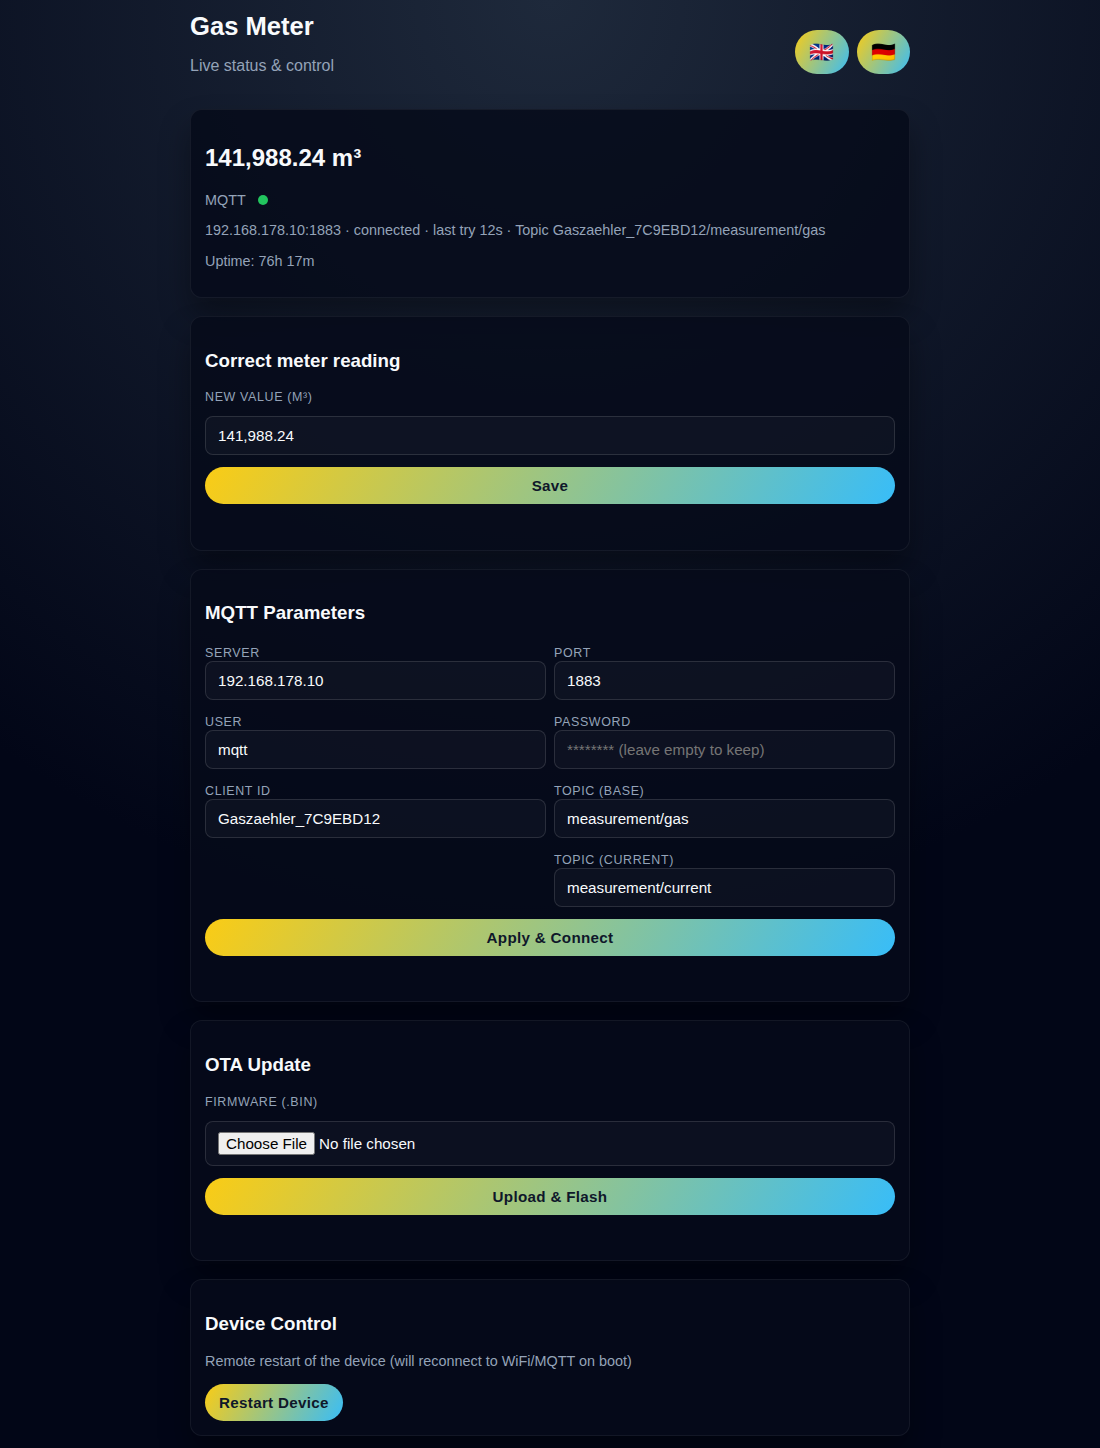
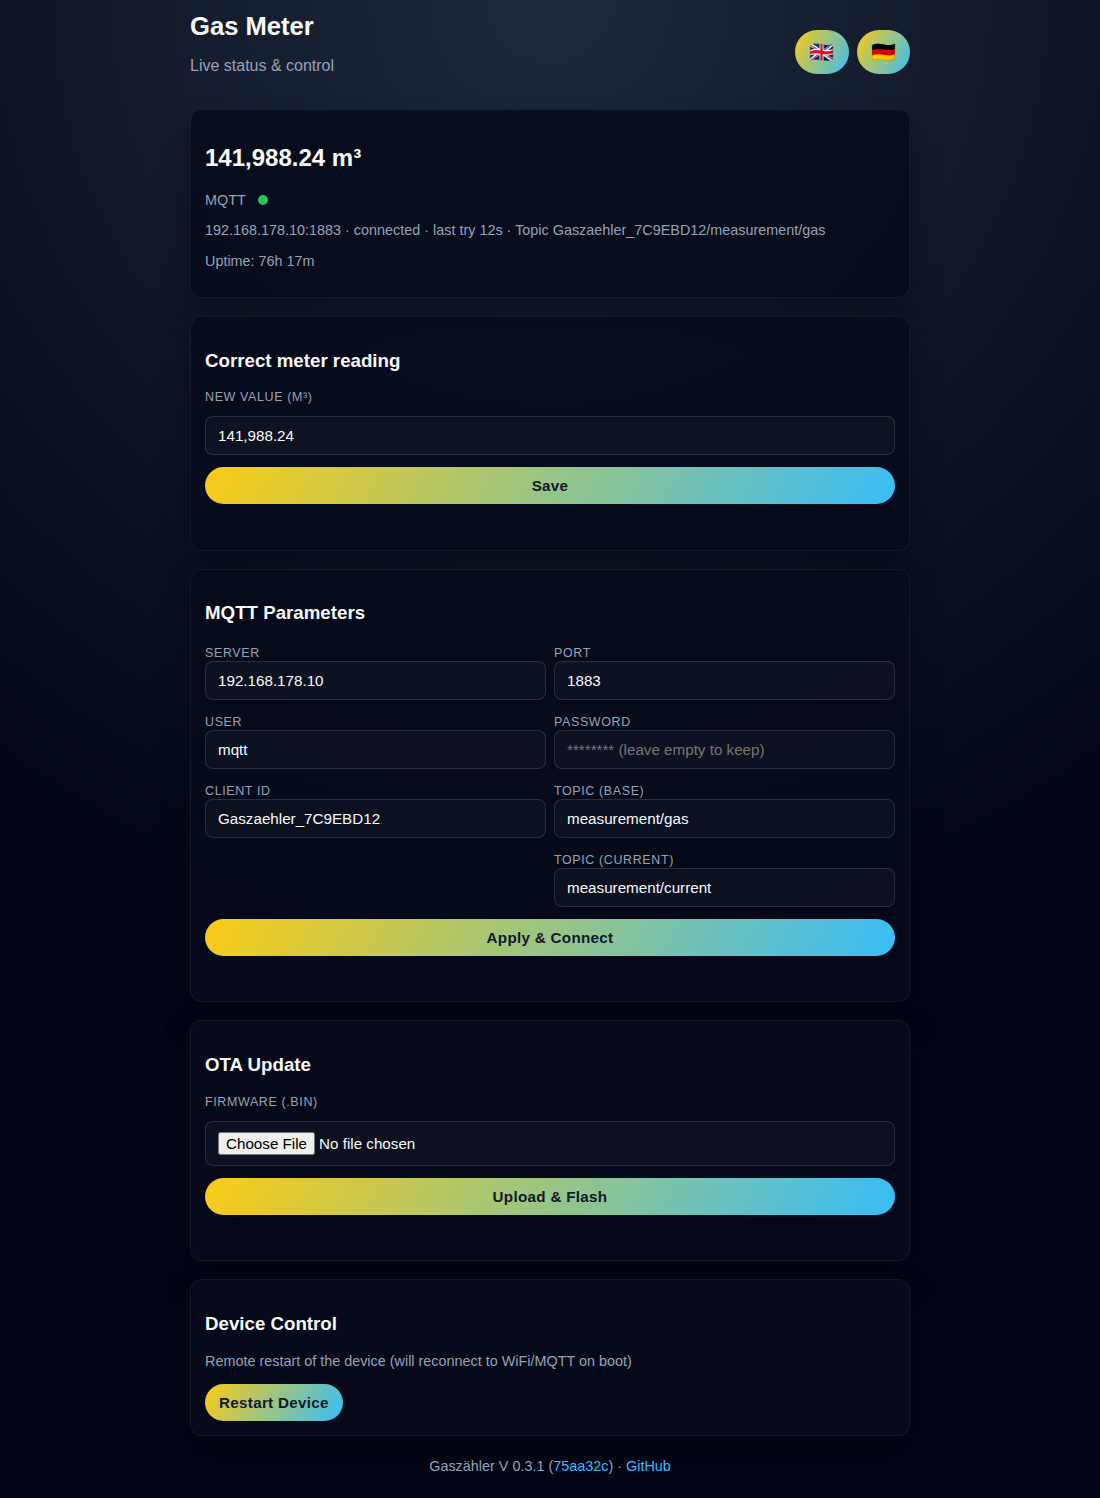
Single retained MQTT topic, firmware version with git commit in web UI, TFT and HA
- meter reading only on <clientID>/<topic> (retained); HA discovery points there,
  the retained .../state message of older firmware is deleted on connect
- scripts/build_info.py embeds the git commit; web UI footer shows version,
  commit (linked) and GitHub link

diff --git a/web/index.html b/web/index.html
@@ -52,6 +52,9 @@ main {
 }
 .status-dot.online { background:#22c55e; }
 .muted { color:var(--muted); font-size:0.9rem; }
+footer { text-align:center; padding:4px 0 12px; }
+footer a { color:var(--accent-2); text-decoration:none; }
+footer a:hover { text-decoration:underline; }
 form { display:flex; flex-direction:column; gap:12px; }
 label {
     font-size:0.78rem;
@@ -193,6 +196,11 @@ input, select, textarea { width: 100%; box-sizing: border-box; }
         <button id="btn-restart" data-i18n="restart">Restart Device</button>
         <span class="feedback" id="restart-feedback"></span>
     </section>
+    <footer class="muted">
+        <span>Gaszähler</span> <span id="fw-version"></span>
+        (<a id="fw-commit" target="_blank" rel="noopener"></a>)
+        · <a id="repo-link" href="https://github.com/HeikoGr/Gaszaehler" target="_blank" rel="noopener">GitHub</a>
+    </footer>
 </main>
 <script>
 const volumeEl = document.getElementById('volume');
@@ -242,6 +250,7 @@ async function refreshStatus() {
         const lastAttempt = data.mqttLastAttemptUptime || 0;
         mqttInfo.textContent = `${data.mqttServer}:${data.mqttPort} · ${data.mqttLastStatus} · ${t('lastTry')} ${lastAttempt}s · Topic ${data.mqttTopicGas}`;
         uptimeEl.textContent = `Uptime: ${formatUptime(data.uptimeSeconds)}`;
+        updateFooter(data);
         const formattedVolume = nf.format(data.gasVolumeM3 || 0);
         consumptionInput.placeholder = formattedVolume;
         // Prefill with the current value unless the user has typed something of their own
@@ -262,6 +271,19 @@ async function refreshStatus() {
     } catch (error) {
         mqttInfo.textContent = t('statusUnavailable');
     }
+}
+
+// Firmware version and git commit (linked to the commit on GitHub) in the footer
+function updateFooter(data) {
+    const repo = data.projectUrl || document.getElementById('repo-link').href;
+    document.getElementById('repo-link').href = repo;
+    document.getElementById('fw-version').textContent = data.version || '';
+    const commitEl = document.getElementById('fw-commit');
+    const commit = data.commit || 'unknown';
+    commitEl.textContent = commit + (data.commitDirty ? '*' : '');
+    commitEl.title = data.commitDirty ? t('dirtyBuild') : '';
+    if (commit !== 'unknown') commitEl.href = `${repo}/commit/${commit}`;
+    else commitEl.removeAttribute('href');
 }
 
 function formatUptime(seconds) {
@@ -290,6 +312,7 @@ const translations = {
         passwordHint: 'leave empty to keep',
         lastTry: 'last try',
         error: 'Error',
+        dirtyBuild: 'built with uncommitted changes',
         title: 'Gas Meter',
         subtitle: 'Live status & control',
         correctReading: 'Correct meter reading',
@@ -325,6 +348,7 @@ const translations = {
         passwordHint: 'leer lassen = unverändert',
         lastTry: 'letzter Versuch',
         error: 'Fehler',
+        dirtyBuild: 'mit nicht committeten Änderungen gebaut',
         title: 'Gaszähler',
         subtitle: 'Live-Status & Steuerung',
         correctReading: 'Zählerstand korrigieren',

diff --git a/scripts/build_info.py b/scripts/build_info.py
@@ -1,0 +1,42 @@
+"""Writes include/generated/build_info.h with the git commit of the build.
+
+Runs automatically as a PlatformIO pre-build script; can also be run standalone:
+python scripts/build_info.py. Without git (e.g. a source archive) the commit is "unknown".
+"""
+import pathlib
+import subprocess
+
+try:
+    Import("env")  # noqa: F821 - provided by PlatformIO/SCons
+    ROOT = pathlib.Path(env.subst("$PROJECT_DIR"))  # noqa: F821
+except NameError:
+    ROOT = pathlib.Path(__file__).resolve().parent.parent
+
+OUT = ROOT / "include" / "generated" / "build_info.h"
+
+
+def git(*args):
+    return subprocess.run(["git", *args], cwd=ROOT, capture_output=True, text=True, check=True).stdout.strip()
+
+
+def main():
+    try:
+        commit = git("rev-parse", "--short=7", "HEAD")
+        # uncommitted changes in tracked files (generated files are ignored by git)
+        dirty = git("status", "--porcelain", "--untracked-files=no") != ""
+    except (OSError, subprocess.CalledProcessError):
+        commit, dirty = "unknown", False
+    header = (
+        "// Generated by scripts/build_info.py - do not edit\n"
+        "#pragma once\n\n"
+        f'#define BUILD_COMMIT "{commit}"\n'
+        f"#define BUILD_DIRTY {'true' if dirty else 'false'}\n"
+    )
+    OUT.parent.mkdir(parents=True, exist_ok=True)
+    # Only touch the file when the content changed, to avoid needless rebuilds
+    if not OUT.exists() or OUT.read_text() != header:
+        OUT.write_text(header)
+        print(f"build_info: commit {commit}{' (dirty)' if dirty else ''}")
+
+
+main()

diff --git a/src/mqtt.cpp b/src/mqtt.cpp
@@ -100,12 +100,12 @@ namespace
 
     void publishDiscovery()
     {
-        String stateTopic = topic(settings.topicGas) + "/state";
+        String stateTopic = topic(settings.topicGas);
         String availability = topic("availability");
 
         JsonDocument device;
         device["name"] = settings.clientId;
-        device["sw_version"] = FIRMWARE_VERSION;
+        device["sw_version"] = firmwareVersionLong();
         device["identifiers"].to<JsonArray>().add(settings.clientId);
         device["model"] = "Gaszaehler";
         device["manufacturer"] = "DIY";
@@ -225,6 +225,8 @@ namespace mqtt
             client.subscribe(correctionTopic, 1);
             publishDiscovery();
             publishState();
+            // Remove the retained "<topic>/state" of firmware 0.0.2 - 0.3.0
+            publish(topic(settings.topicGas) + "/state", "", true);
             app::requestDisplayUpdate();
         }
         if (correction)
@@ -261,11 +263,8 @@ namespace mqtt
             return;
         char value[16];
         formatVolume(value, sizeof(value), meter::total());
-        String base = topic(settings.topicGas);
         // retained, so Home Assistant has the value immediately after its own restart
-        publish(base + "/state", value, true);
-        // same value without retain, kept for setups of firmware <= 0.0.1
-        publish(base, value, false);
+        publish(topic(settings.topicGas), value, true);
     }
 
     void reconfigure(const char *oldClientId)

diff --git a/src/web.cpp b/src/web.cpp
@@ -11,6 +11,8 @@
 #include <WiFi.h>
 // Generated from web/index.html by scripts/embed_web.py (gzip-compressed)
 #include "generated/web_index_html.h"
+// Generated by scripts/build_info.py
+#include "generated/build_info.h"
 
 namespace
 {
@@ -100,6 +102,9 @@ namespace
         doc["wifiConnected"] = WiFi.status() == WL_CONNECTED;
         doc["uptimeSeconds"] = millis() / 1000;
         doc["version"] = FIRMWARE_VERSION;
+        doc["commit"] = BUILD_COMMIT;
+        doc["commitDirty"] = BUILD_DIRTY;
+        doc["projectUrl"] = PROJECT_URL;
         doc["clientID"] = settings.clientId;
         doc["mqttTopicGas"] = String(settings.clientId) + "/" + settings.topicGas;
         doc["mqttTopicCurrent"] = String(settings.clientId) + "/" + settings.topicCorrection;

diff --git a/src/util.cpp b/src/util.cpp
@@ -1,5 +1,6 @@
 #include "util.h"
 #include "config.h"
+#include "generated/build_info.h"
 #include <ctype.h>
 #include <stdio.h>
 #include <stdlib.h>
@@ -63,6 +64,14 @@ bool parseMeterValue(const char *str, size_t len, uint32_t &result)
         fraction *= 10;
     result = integerPart * 100 + fraction;
     return result <= MAX_METER_VALUE;
+}
+
+const char *firmwareVersionLong()
+{
+    static char text[40];
+    if (!text[0])
+        snprintf(text, sizeof(text), "%s (%s%s)", FIRMWARE_VERSION, BUILD_COMMIT, BUILD_DIRTY ? "*" : "");
+    return text;
 }
 
 void formatVolume(char *out, size_t size, uint32_t value)

diff --git a/include/config.h b/include/config.h
@@ -2,7 +2,10 @@
 #pragma once
 #include <stdint.h>
 
-constexpr const char *FIRMWARE_VERSION = "V 0.3.0";
+constexpr const char *FIRMWARE_VERSION = "V 0.3.1";
+// "V 0.3.1 (abc1234)", "*" marks a build with uncommitted changes
+const char *firmwareVersionLong();
+constexpr const char *PROJECT_URL = "https://github.com/HeikoGr/Gaszaehler";
 
 // Pins (LilyGO TTGO T-Display)
 constexpr int REED_PIN = 32; // ADC1 pin, reed contact to 3.3 V with 1 kOhm pull-down

diff --git a/src/display.cpp b/src/display.cpp
@@ -117,7 +117,7 @@ namespace
         s.mqttPort = settings.mqttPort;
         s.clientId = settings.clientId;
         s.mqttStatus = mqtt::status();
-        s.version = FIRMWARE_VERSION;
+        s.version = firmwareVersionLong();
         s.uptimeSeconds = millis() / 1000;
         s.pulseCount = pulses;
         s.editValue = editValue;

diff --git a/tools/screenshots/render_lcd.cpp b/tools/screenshots/render_lcd.cpp
@@ -21,7 +21,7 @@ static UiState baseState()
     s.mqttPort = "1883";
     s.clientId = "Gaszaehler_7C9EBD12";
     s.mqttStatus = "connected";
-    s.version = "V 0.3.0";
+    s.version = "V 0.3.1 (75aa32c)";
     s.uptimeSeconds = 3 * 86400 + 4 * 3600 + 17 * 60;
     s.pulseCount = 1834;
     s.editValue = 14198824;

diff --git a/README.MD b/README.MD
@@ -7,6 +7,9 @@ An ESP32 TTGO T-Display reads a reed switch on a diaphragm gas meter (e.g., BK-G
 3D-printed enclosure by 3dFabrik: [Thingiverse](https://www.thingiverse.com/thing:5594161)
 
 ## Changelog
+- **V 0.3.1**
+  - MQTT: only one topic for the meter reading, `<clientID>/<mqtt_topic_gas>` (retained); the duplicate `…/state` topic is removed (its retained message is deleted on connect, Home Assistant is switched over via discovery, the entity and its history are kept)
+  - Firmware version with git commit in the web UI footer (linked to GitHub), on the TFT and in Home Assistant
 - **V 0.3.0**
   - Platform: Arduino-ESP32 core 3.x via [pioarduino](https://github.com/pioarduino/platform-espressif32) (the official PlatformIO platform only ships the outdated core 2.x)
   - Libraries: [espMqttClient](https://github.com/bertmelis/espMqttClient) replaces the unmaintained PubSubClient (MQTT runs in its own task, connecting never blocks the main loop); [LovyanGFX](https://github.com/lovyan03/LovyanGFX) replaces TFT_eSPI
@@ -47,7 +50,7 @@ An ESP32 TTGO T-Display reads a reed switch on a diaphragm gas meter (e.g., BK-G
 ## Features
 - Pulse counting via reed switch, hysteresis for noise rejection
 - TFT display: meter reading with flow estimate, Wi-Fi, MQTT and device pages, local editing of the meter value, setup instructions while the config portal is active
-- MQTT publishing with retained numeric state (`<clientID>/measurement/gas/state`) and Home Assistant discovery (sensor + number entity to set the reading)
+- MQTT publishing with retained numeric state (`<clientID>/measurement/gas`) and Home Assistant discovery (sensor + number entity to set the reading)
 - Wi-Fi setup via captive portal; MQTT via portal or web UI; settings and counter persisted to LittleFS
 - Web UI in English/German, mobile-friendly layout, restart button, OTA update form, optional login
 
@@ -95,6 +98,7 @@ The upper button (next to the top-right corner) cycles through the pages, the lo
 
 ### Web UI (served by the device)
 - Status card with MQTT state, uptime, current volume
+- Footer with firmware version, git commit and link to this repository
 - Adjust meter value
 - MQTT settings (server/port/user/pass, clientID, topics), restart button, OTA upload
 - Language toggle EN/DE; default follows browser language
@@ -104,7 +108,7 @@ The upper button (next to the top-right corner) cycles through the pages, the lo
 ### HTTP API (local)
 All `POST` endpoints require the header `X-Requested-With: gaszaehler` (CSRF protection); requests without it are rejected with `403`. If a web UI password is set, all endpoints require HTTP Digest (or Basic) auth with user `admin`.
 
-- `GET /api/status` → JSON with MQTT/Wi-Fi state, topics, uptime, masked password, client ID, current reading.
+- `GET /api/status` → JSON with MQTT/Wi-Fi state, topics, uptime, masked password, client ID, current reading, flow, firmware version and commit.
 - `POST /api/consumption` with `value` (m3, e.g. `12345.67` or `12345,67`, max `999999.99`) → sets meter value and saves.
 - `POST /api/mqtt` with `server, port, username, password, clientid, topic, topic_current` → saves the settings, reconnects, republishes discovery. An empty `password` keeps the stored one (unless `username` is empty, then it is cleared).
 - `POST /api/restart` → replies then restarts the ESP32.
@@ -112,8 +116,7 @@ All `POST` endpoints require the header `X-Requested-With: gaszaehler` (CSRF pro
 
 ### MQTT topics
 All values in m³ with two decimals (e.g. `141988.24`), published every 60 s and right after every correction.
-- State (retained): `<clientID>/<mqtt_topic_gas>/state` (e.g. `Gaszaehler_ABC/measurement/gas/state`)
-- Same value, not retained (kept for compatibility with older setups): `<clientID>/<mqtt_topic_gas>` (default `measurement/gas`)
+- Meter reading (retained): `<clientID>/<mqtt_topic_gas>` (default `measurement/gas`, e.g. `Gaszaehler_ABC/measurement/gas`). Retained, so Home Assistant has the value right after its own restart.
 - Correction (command) topic, subscribed: `<clientID>/<mqtt_topic_current>` (default `measurement/current`)
 - Availability (retained): `<clientID>/availability` with `online`/`offline`
 
@@ -121,7 +124,7 @@ All values in m³ with two decimals (e.g. `141988.24`), published every 60 s and
 - Discovery retained topics:
   - `homeassistant/sensor/<clientID>_gas_volume/config` (total, `device_class: gas`, `state_class: total_increasing`)
   - `homeassistant/number/<clientID>_meter_set/config` (number entity to set the meter reading; writes to `<clientID>/<mqtt_topic_current>`, shows the current total)
-- State topic in discovery points to `<clientID>/<mqtt_topic_gas>/state`
+- State topic in discovery points to `<clientID>/<mqtt_topic_gas>`
 - Availability wired to `<clientID>/availability`
 
 ### Edit meter value
@@ -147,7 +150,9 @@ All values in m³ with two decimals (e.g. `141988.24`), published every 60 s and
   - `util`: parsing/formatting without Arduino dependencies
   - `config.h`: pins, intervals, limits
 - `lib/ui/`: display layouts and a small RGB565 framebuffer library with anti-aliased fonts. It has no Arduino dependencies, so the screens can be rendered on a PC.
-- `web/index.html`: web UI; `scripts/embed_web.py` gzips it into the firmware at build time (generated header in `include/generated/`, not committed)
+- `web/index.html`: web UI; `scripts/embed_web.py` gzips it into the firmware at build time
+- `scripts/build_info.py`: puts the git commit into the firmware (shown as `V x.y.z (commit)`, `*` = built with uncommitted changes)
+- Both scripts write to `include/generated/` (not committed)
 - `tools/fontgen/`: regenerates the font headers in `lib/ui/fonts/` from the [Inter](https://rsms.me/inter/) font (SIL Open Font License 1.1)
 
 ### Screenshots
